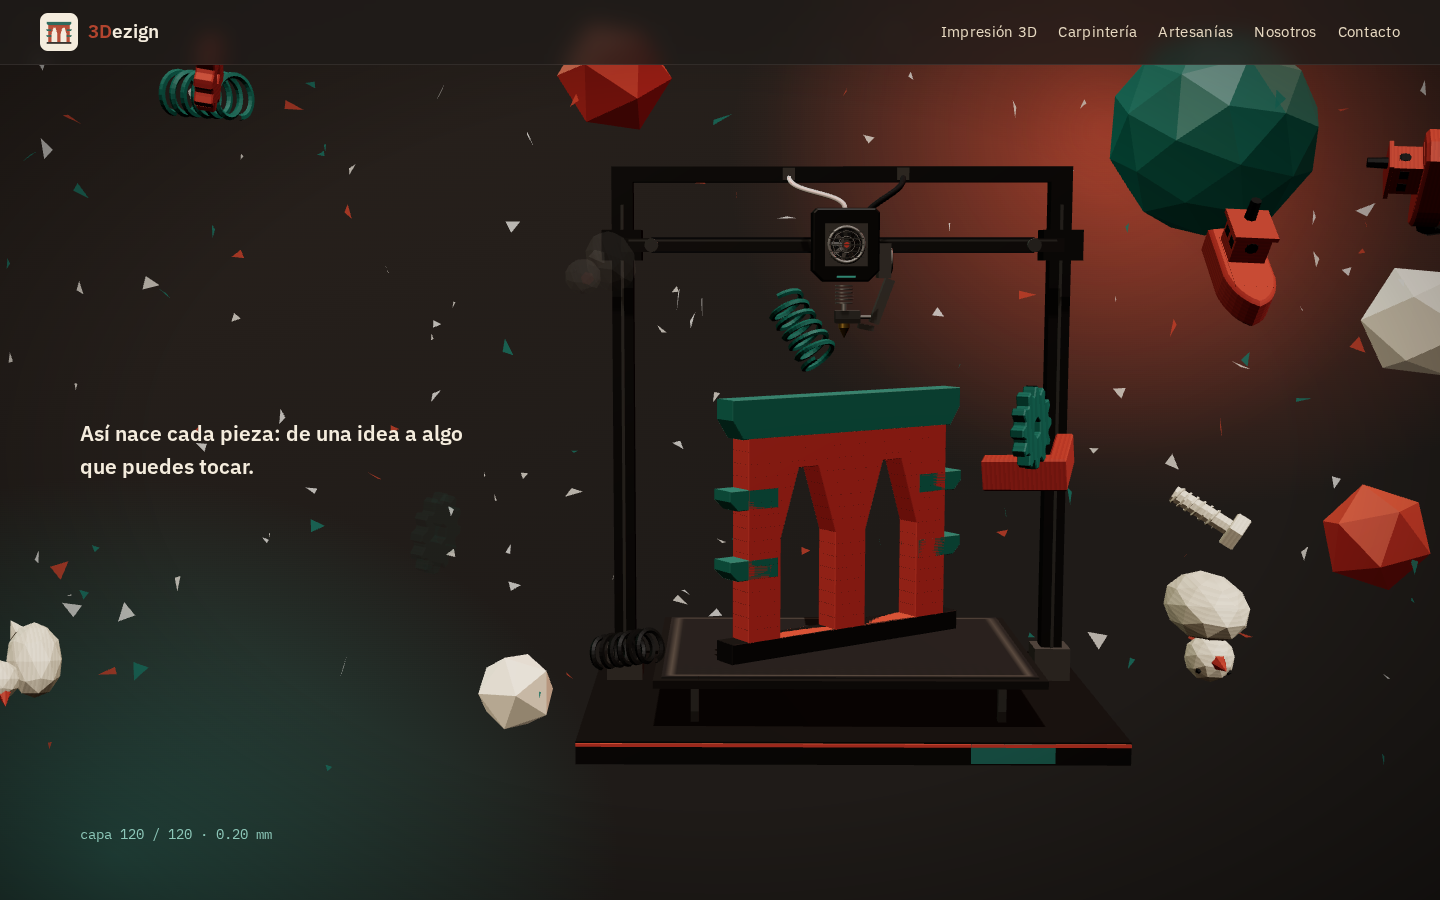
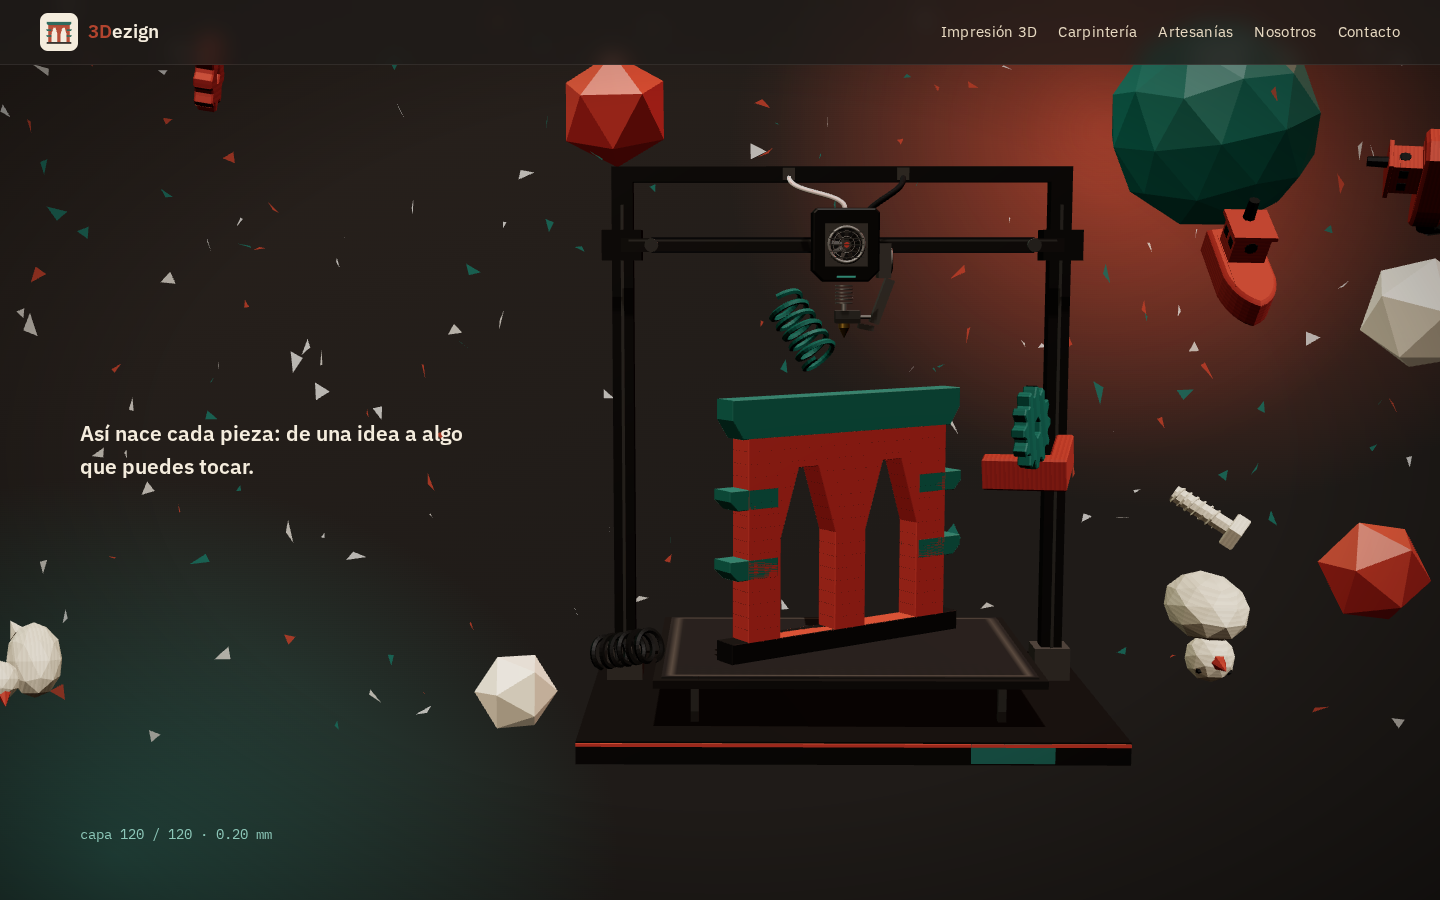
QA: reduced-motion solo floaters en el hero; desvanecimiento total y anticipado; contador de capa excluido

diff --git a/src/main.js b/src/main.js
@@ -68,13 +68,17 @@ document.querySelector('form').addEventListener('submit', e => {
   e.preventDefault(); document.querySelector('.aviso').textContent = c.contacto.avisoForm;
 });
 
-const floaters = createFloaters(document.querySelector('#floaters'), { reduced, avoid: '.hero-copy, .hero-final, .s h2, .s .lead, .eyebrow, .card, .mono, .pending, form, .canales, .split img' });
+const floaters = createFloaters(document.querySelector('#floaters'), { reduced, avoid: '.progress, .hero-copy, .hero-final, .s h2, .s .lead, .eyebrow, .card, .mono, .pending, form, .canales, .split img' });
 const scene = createScene(document.querySelector('#scene'), { reduced });
 const capa = document.querySelector('#capa');
 const final = document.querySelector('.hero-final');
 const copy = document.querySelector('.hero-copy');
 
 if (reduced) {
+  // reduced-motion: los objetos quietos solo existen dentro del hero; fuera de él el canvas se recorta por completo
+  const fc = document.querySelector('#floaters'), hero = document.querySelector('#hero');
+  const clip = () => { const b = Math.max(0, hero.getBoundingClientRect().bottom); fc.style.clipPath = `inset(0 0 ${Math.max(0, innerHeight - b)}px 0)`; fc.style.visibility = b <= 0 ? 'hidden' : 'visible'; };
+  clip(); addEventListener('scroll', clip, { passive: true }); addEventListener('resize', clip);
   scene.setProgress(1); capa.textContent = 120; // el texto de cierre no se muestra: el hero ya ocupa ese espacio
 } else {
   const lenis = new Lenis();

diff --git a/src/floaters.js b/src/floaters.js
@@ -111,10 +111,10 @@ export function createFloaters(canvas, { reduced, avoid = '' }) {
   const v = new THREE.Vector3();
   function fade(o, rects, instant) {
     v.copy(o.position).project(camera);
-    const sx = (v.x + 1) / 2 * W, sy = (1 - v.y) / 2 * H, [, hh] = halfAt(o.userData.z), rad = o.userData.base * 0.75 / hh * H / 2 + 10;
+    const sx = (v.x + 1) / 2 * W, sy = (1 - v.y) / 2 * H, [, hh] = halfAt(o.userData.z), rad = o.userData.base * 0.8 / hh * H / 2 + 36; // margen amplio: se va antes de llegar
     const hit = rects.some(r => sx + rad > r.left && sx - rad < r.right && sy + rad > r.top && sy - rad < r.bottom);
-    const target = hit ? 0.08 : 1; o.userData.a = instant ? target : o.userData.a + (target - o.userData.a) * 0.2;
-    o.visible = o.userData.a > 0.02;
+    const target = hit ? 0 : 1; o.userData.a = instant ? target : o.userData.a + (target - o.userData.a) * 0.3; if (o.userData.a < 0.03) o.userData.a = 0;
+    o.visible = o.userData.a > 0;
     o.traverse(m => { if (m.material) { m.material.opacity = o.userData.a; m.material.depthWrite = o.userData.a > 0.9; } });
   }
   const els = avoid ? [...document.querySelectorAll(avoid)] : [];
